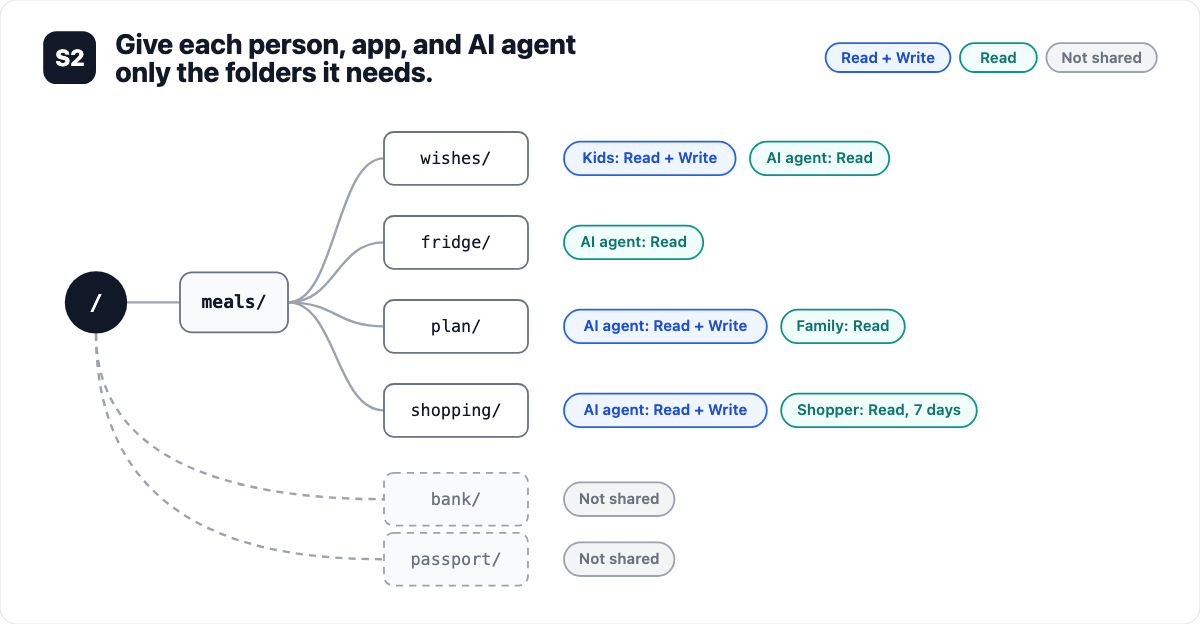
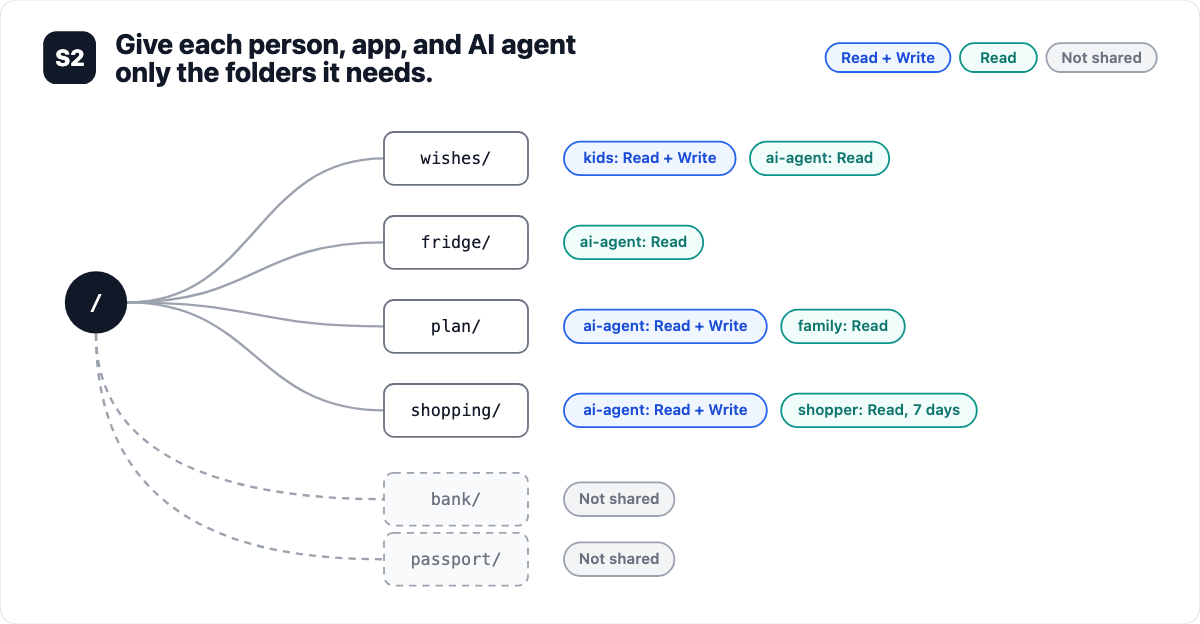
Align diagram with token screenshot

diff --git a/website/index.html b/website/index.html
@@ -58,7 +58,8 @@
           </div>
         </div>
         <figure class="flow">
-          <img src="images/overview.svg" width="900" height="430" alt="A folder tree: wishes, fridge, plan and shopping under meals, each labelled with who can read or write it; bank and passport are not shared">
+          <img src="images/overview.svg" width="900" height="430" alt="A folder tree: wishes, fridge, plan and shopping, each labelled with the tokens that can read or write it; bank and passport are not shared">
+          <figcaption>Each badge is one token from the list above.</figcaption>
         </figure>
       </section>
 

diff --git a/website/styles.css b/website/styles.css
@@ -170,6 +170,11 @@ h1 em {
   margin: 0;
   overflow-x: auto;
 }
+.flow figcaption {
+  margin-top: 0.75rem;
+  color: var(--muted);
+  font-size: 0.9rem;
+}
 .flow img {
   display: block;
   width: 100%;
